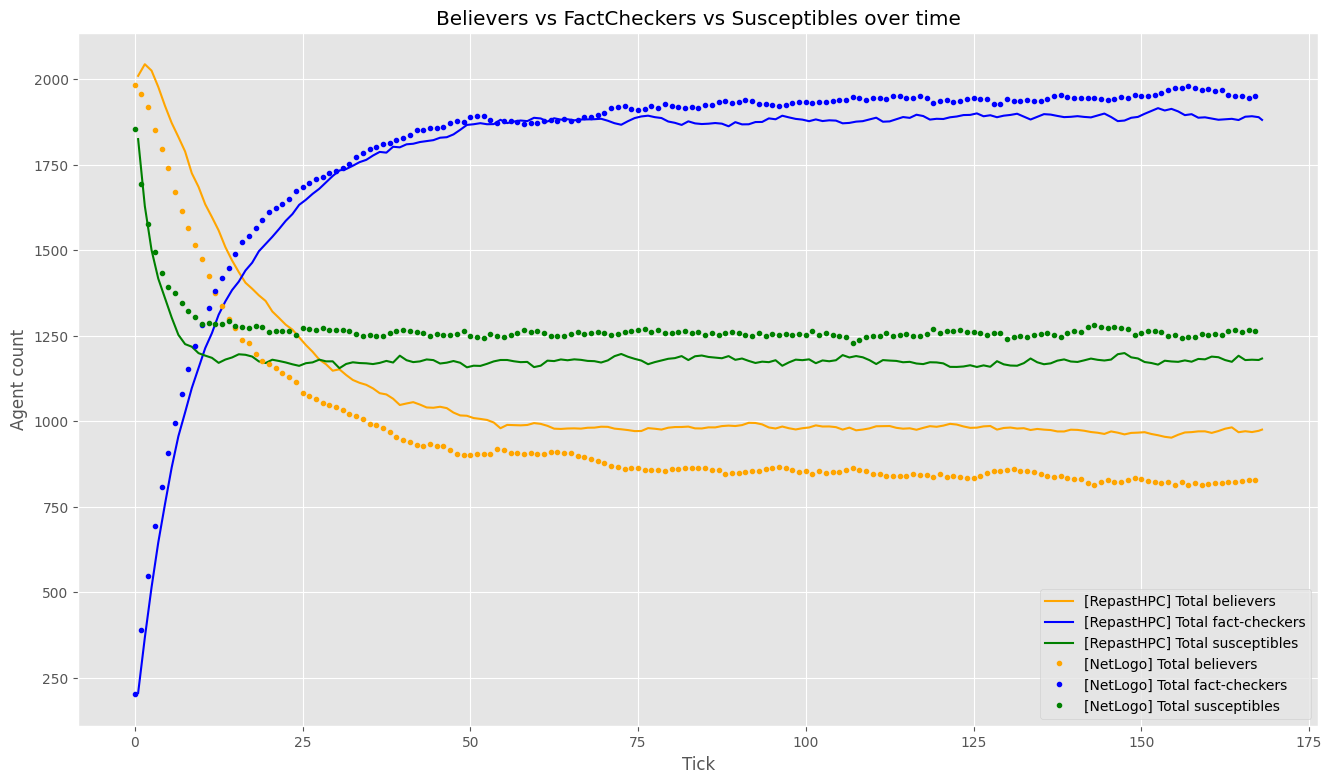
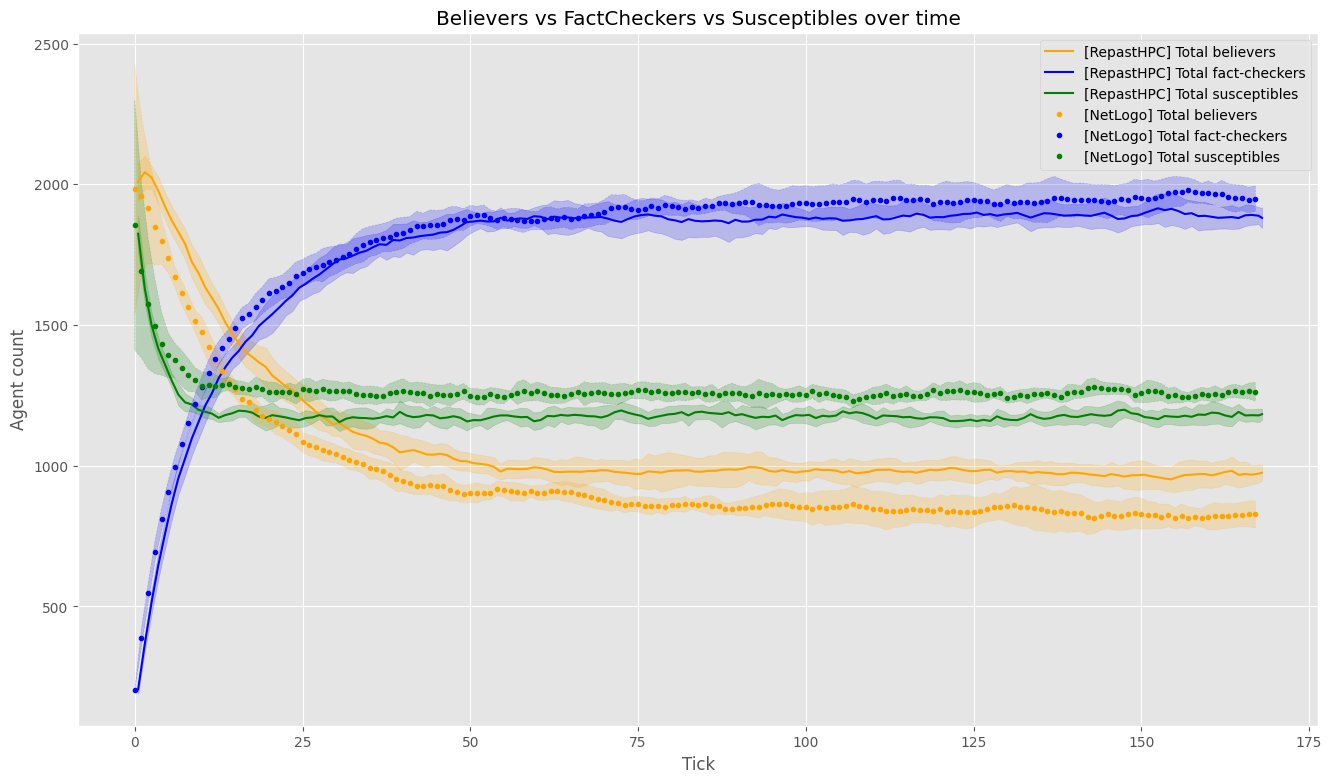
added extra performance metrics and validation with confidence intervals to misinformation model

diff --git a/misinformation-diffusion-repast-hpc/tools/plot_network.py b/misinformation-diffusion-repast-hpc/tools/plot_network.py
@@ -15,11 +15,11 @@ if __name__ == "__main__":
     arg_parser.add_argument("--network", type=str, default="./networks/ws__k_100_p_0.5_network_1000.gml", help="Path to the GML file of the network to visualize")
     args = arg_parser.parse_args()
 
-    # G = nx.read_gml(args.network)
+    G = nx.read_gml(args.network)
     # G = nx.barabasi_albert_graph(1000, 10)
     # G = nx.erdos_renyi_graph(1000, 0.1)
     # G = nx.watts_strogatz_graph(1000, 100, 0.01)
-    G = nx.powerlaw_cluster_graph(n=10000, m=2, p=0.9)
+    # G = nx.powerlaw_cluster_graph(n=10000, m=2, p=0.9)
 
     # print avg degree and cluster coefficient
     avg_degree = sum(dict(G.degree()).values()) / G.number_of_nodes()
@@ -39,16 +39,15 @@ if __name__ == "__main__":
     
 
     # plot network nodes
-    # plt.figure(figsize=(12, 12))
-    # plt.title("GML Network Visualization", fontsize=14, fontweight="bold")
-    #
-    # pos = nx.spring_layout(G, seed=42)
-    # nx.draw_networkx_nodes(
-    #     G, pos, node_size=700, node_color="skyblue", edgecolors="black"
-    # )
-    # nx.draw_networkx_edges(G, pos, width=2, alpha=0.6, edge_color="gray")
-    # nx.draw_networkx_labels(G, pos, font_size=12, font_family="sans-serif")
-    #
-    # plt.axis("off")
-    # plt.tight_layout()
-    # plt.show()
+    plt.figure(figsize=(12, 12))
+    plt.title("GML Network Visualization", fontsize=14, fontweight="bold")
+
+    pos = nx.spring_layout(G, seed=42)
+    nx.draw_networkx_nodes(
+        G, pos, node_size=700, node_color="skyblue", edgecolors="black"
+    )
+    nx.draw_networkx_edges(G, pos, width=2, alpha=0.6, edge_color="gray")
+
+    plt.axis("off")
+    plt.tight_layout()
+    plt.show()
